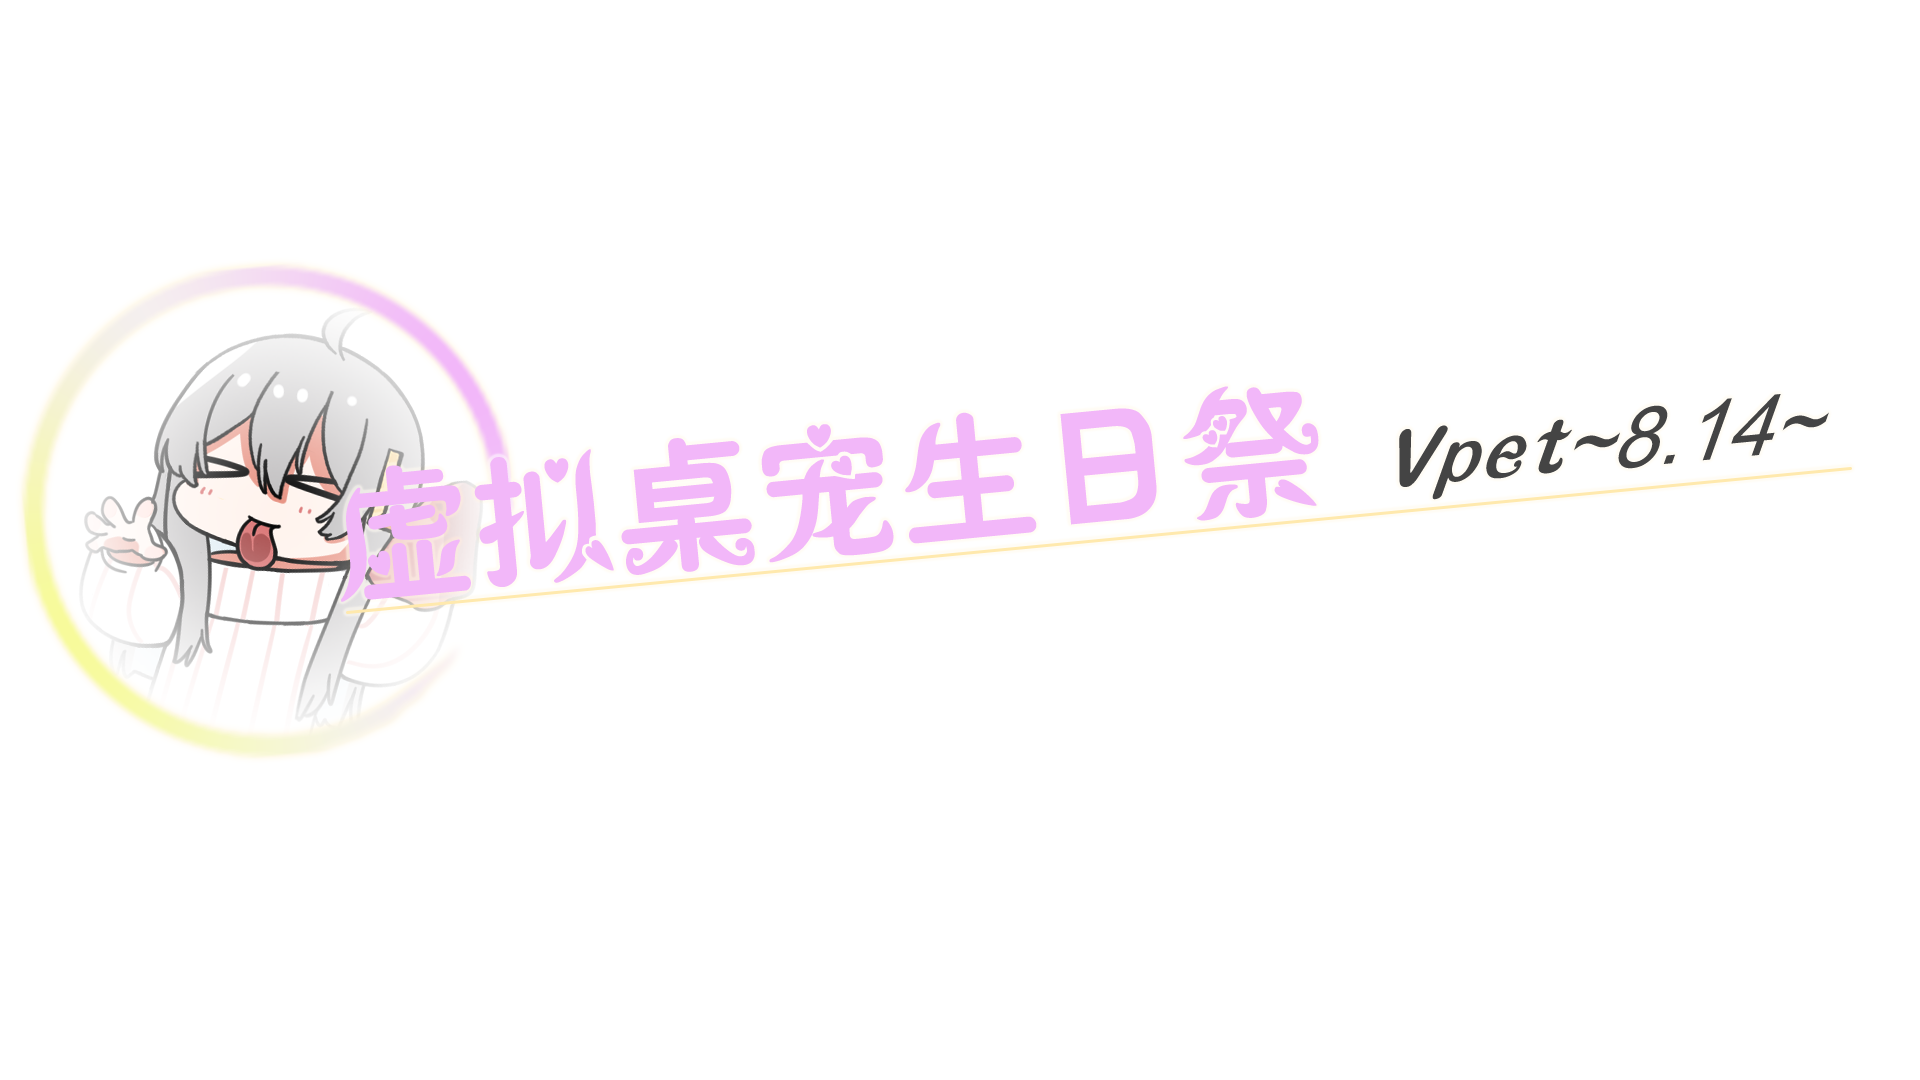
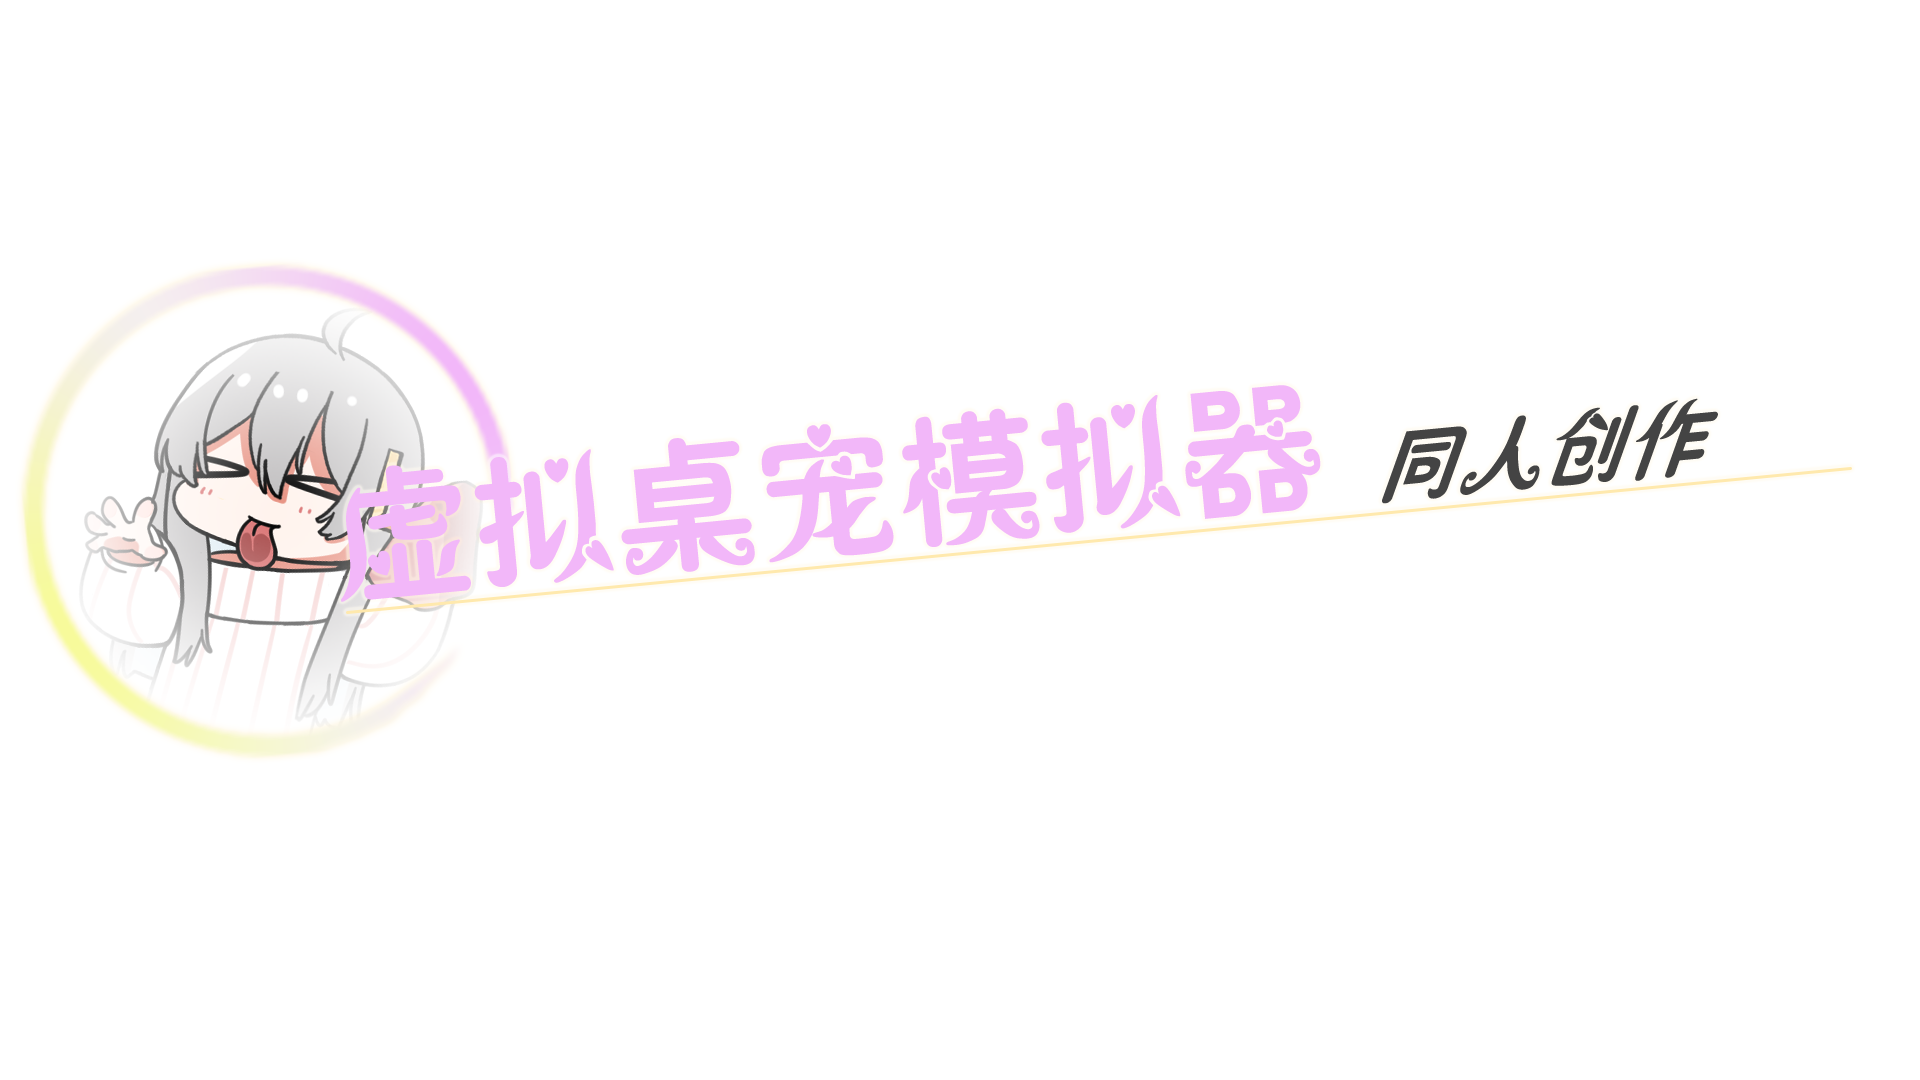
·补充后续优化计划（难度配置化、统一伤害入口、效果配置化、Buff聚合、表现事件化、地图数据化）
·更新标题图与游戏封面图资源
·更新主菜单场景

Changed region(s): [[0.4688, 0.3361, 0.6875, 0.5194], [0.7188, 0.3667, 0.9688, 0.4583]]

diff --git a/Docs/脚本注释与桌宠重构计划.md b/Docs/脚本注释与桌宠重构计划.md
@@ -176,3 +176,65 @@
 
 - 使用 Unity 2022.3.62f3c1 当前工程 Bee/Roslyn 参数编译通过，并生成 XML 文档。
 - Roslyn 已使用当前工程 Bee 参数编译全部游戏脚本及新增管理器，退出码为 0 且无编译警告；当前打开的本工程 `Editor.log` 未发现脚本编译错误，并记录了新脚本导入。额外 Unity 批处理因项目已被编辑器实例占用而未启动成功，未将其误记为批处理通过；未进行 Play Mode 性能对比。
+
+## 与毕设项目架构对齐的后续优化计划（2026-09-19）
+
+对比《Dweller of the Fading Stars》毕设项目后确认的下一批优化方向。当前均为计划，尚未实施；实施时沿用既有验证纪律：分阶段提交、可单独回退、排除属性后的代码语法标记对比、数值断言与 Bee/Roslyn 编译验证、Play Mode 回归清单。
+
+### 阶段与优先级
+
+| 阶段 | 内容 | 优先级 |
+| --- | --- | --- |
+| A | 难度配置数据化 | 最高，成本最低 |
+| F | 地图数据化（MapConfig + Map Prefab） | 高，为多地图与随机生成铺路 |
+| B | `IDamageable` + `DamageInfo` 统一伤害入口 | 高，对象池重置协议的前置条件 |
+| C | 食物效果配置化 | 中，内容扩展加速器 |
+| D | 轻量 Buff 聚合 | 可选，需食物叠加玩法时实施 |
+| E | 表现层事件化 | 与 D 配合实施 |
+
+### 阶段A：难度配置数据化
+
+- 参考毕设项目 `MonsterConfig` 的 ScriptableObject 模式，新建 `GameDifficultyConfig`：桌宠生命、无敌时间、恢复倍率、敌人生命倍率、生成时间修正、攻击基础伤害与冷却。
+- `GameDifficultySystem` 持有当前难度配置并对外分发。
+- 删除 `VpetHealthSystem`、`EnemyHealthSystem`、`SpawnPoint` 等处的 `switch (GameDifficultySystem.Instance.CurrentDifficulty)` 数值分支，改为读取配置字段。
+- 边界：只迁移常量归属，不改变任何数值与生效时机；迁移前后逐项数值断言对齐。
+
+### 阶段B：IDamageable 与 DamageInfo 统一伤害入口
+
+- 参考毕设项目 `10-Mob/IDamage` 模式，定义 `IDamageable` 接口与 `DamageInfo` 结构体（数值、来源类型、命中点、方向）。
+- `VpetHealthSystem`、`EnemyHealthSystem`、`Item_Block` 的受伤入口统一为 `TakeDamage(DamageInfo)`；普通攻击、舞蹈范围攻击、炸弹、尖刺、石锥全部改走同一接口。
+- 敲击方向与击退力随 `DamageInfo` 传递，移除各攻击方自行施加的重复外力逻辑。
+- 边界：本阶段是文档已记录的"统一重置协议"雏形，完成后才评估敌人、炸弹接入 `ObjectPoolManager` 的可行性；保留旧入口方法签名作过渡，逐步收拢调用方。
+
+### 阶段C：食物效果配置化
+
+- 参考 `06-Prop/PropEffect` 模式，为 `ItemData` 增加效果配置子资产（如 `FoodEffectConfig`）：恢复量、增益类型、时长、触发随机事件的权重表。
+- `VpetState_Eat` 的 `switch (item.itemID)`（case 0~5）与 `switch (eventIndex)`（case 1~7）、`DragController` 的 `itemID <= 49` / `== 50` 魔法编号判断改为按配置驱动。
+- 边界：保留现有 itemID 枚举与旧资源兼容，新配置存在时优先；不改变现有食物的实际效果数值。
+
+### 阶段D：轻量 Buff 聚合
+
+- 参考毕设项目 `CharacterBuff` 的聚合思想但做最小化：`List<BuffInstance>`、按类型加法/乘法聚合、到期清理，不引入堆叠合并与脏缓存机制。
+- 聚合对象覆盖现有临时效果：攻击伤害倍率、冷却倍率、加速、无敌、一拳、恢复倍率；对外仅暴露按类型查询与 `OnStatChanged` 事件。
+- `VpetAttack.SetTemporaryModifiers` 与 `VpetEffect` 的限时增益改为读写聚合结果，消除多计时器互相覆盖的可能。
+- 边界：不新增玩法，仅收敛现有效果的存储与计算路径；效果时长与数值保持不变。
+
+### 阶段E：表现层事件化
+
+- 生命系统发出 `OnHealthChanged(current, max)` 事件；血条、头像组件订阅刷新，删除 `VpetHealthSystem.Update()` 的每帧同步。
+- 血条与头像表现逻辑迁入规划中的 `VpetPresentation`（后续整理为 `VpetAnimation`）。
+- `MapProgressBar` 的每帧进度计算改为位置变化阈值触发或事件驱动。
+- 顺带补全 `VpetState_Idle` 占位处理器为真正的待机行为，完成状态机最后的历史欠账。
+- 边界：表现层重构不改变结算、重生与难度判定时机。
+
+### 阶段F：地图数据化
+
+- 参考毕设项目 `MapConfig` / `MapMonsterConfig` 模式，将现有地图抽象为 Map Prefab + `MapConfig`（ScriptableObject）。
+- `MapConfig` 承载：进度起点/终点 X、检查点列表、出生与胜利位置、BGM、主题引用；`MapProgressBar` 删除 -14/550 与固定 2 个检查点的硬编码。
+- 场景仅保留游戏外壳（GameManager、UI、桌宠），通过现有 `AddressableManager` 或 Instantiate 加载地图 Prefab；敌人 `SpawnPoint` 作为地图 Prefab 子对象随地图分发。
+- 边界：与"Tilemap 地图/随机生成关卡"评估结论一致，Tilemap 渲染与碰撞方案保持不变；本阶段只完成数据组织迁移，不实现随机生成。
+
+### 实施顺序与依赖
+
+- A、F 相互独立，可先行；B 的伤害入口是敌人/炸弹对象池迁移的前置；C 依赖 ItemData 结构稳定；D、E 建议合并为一个阶段实施。
+- 每阶段完成时在本文件追加实施记录与验证结果，格式沿用既有条目。
